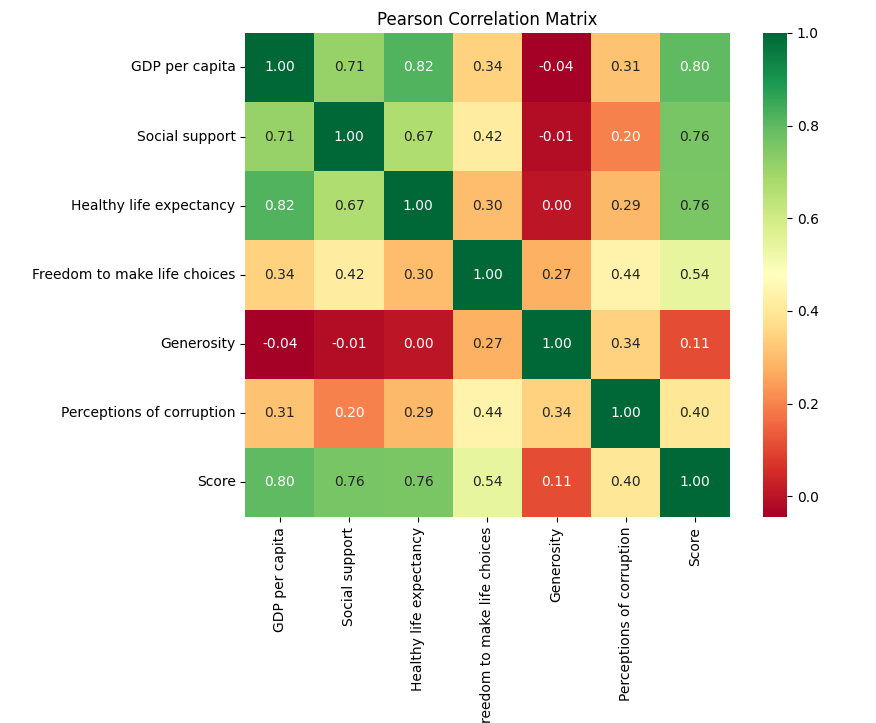
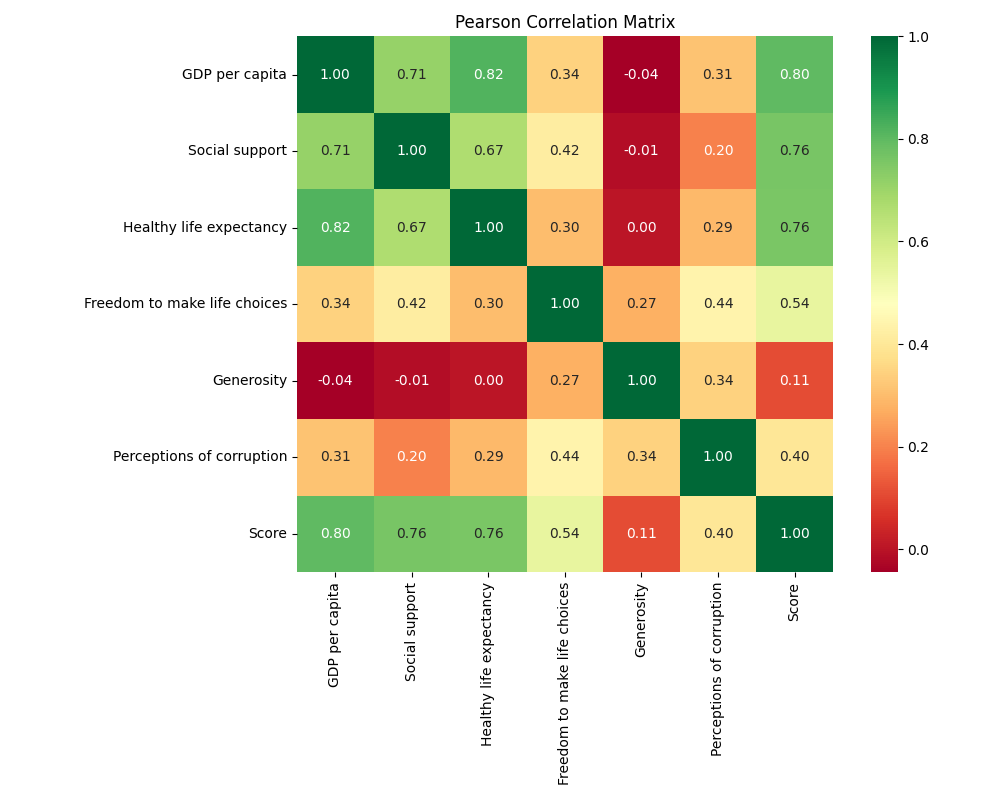
img update

diff --git a/pearson.py b/pearson.py
@@ -29,4 +29,5 @@ plt.figure(figsize=(10, 8))
 sns.heatmap(corr_matrix, annot=True, cmap="RdYlGn", fmt=".2f", square=True)
 plt.title("Pearson Correlation Matrix")
 plt.tight_layout()
+plt.savefig("./img/pearson.png")
 plt.show()

diff --git a/regression.py b/regression.py
@@ -39,4 +39,5 @@ plt.title("Feature Impact on Happiness Score")
 plt.xlabel("Regression Coefficient")
 plt.grid(True)
 plt.tight_layout()
+plt.savefig("./img/linear-regresssion.png", dpi=300)
 plt.show()

diff --git a/scatterplots.py b/scatterplots.py
@@ -38,4 +38,5 @@ for i, feature in enumerate(features, 1):
     plt.ylabel("Happiness Score")
 
 plt.tight_layout()
+plt.savefig("./img/scatterplots.png", dpi=300)
 plt.show()
